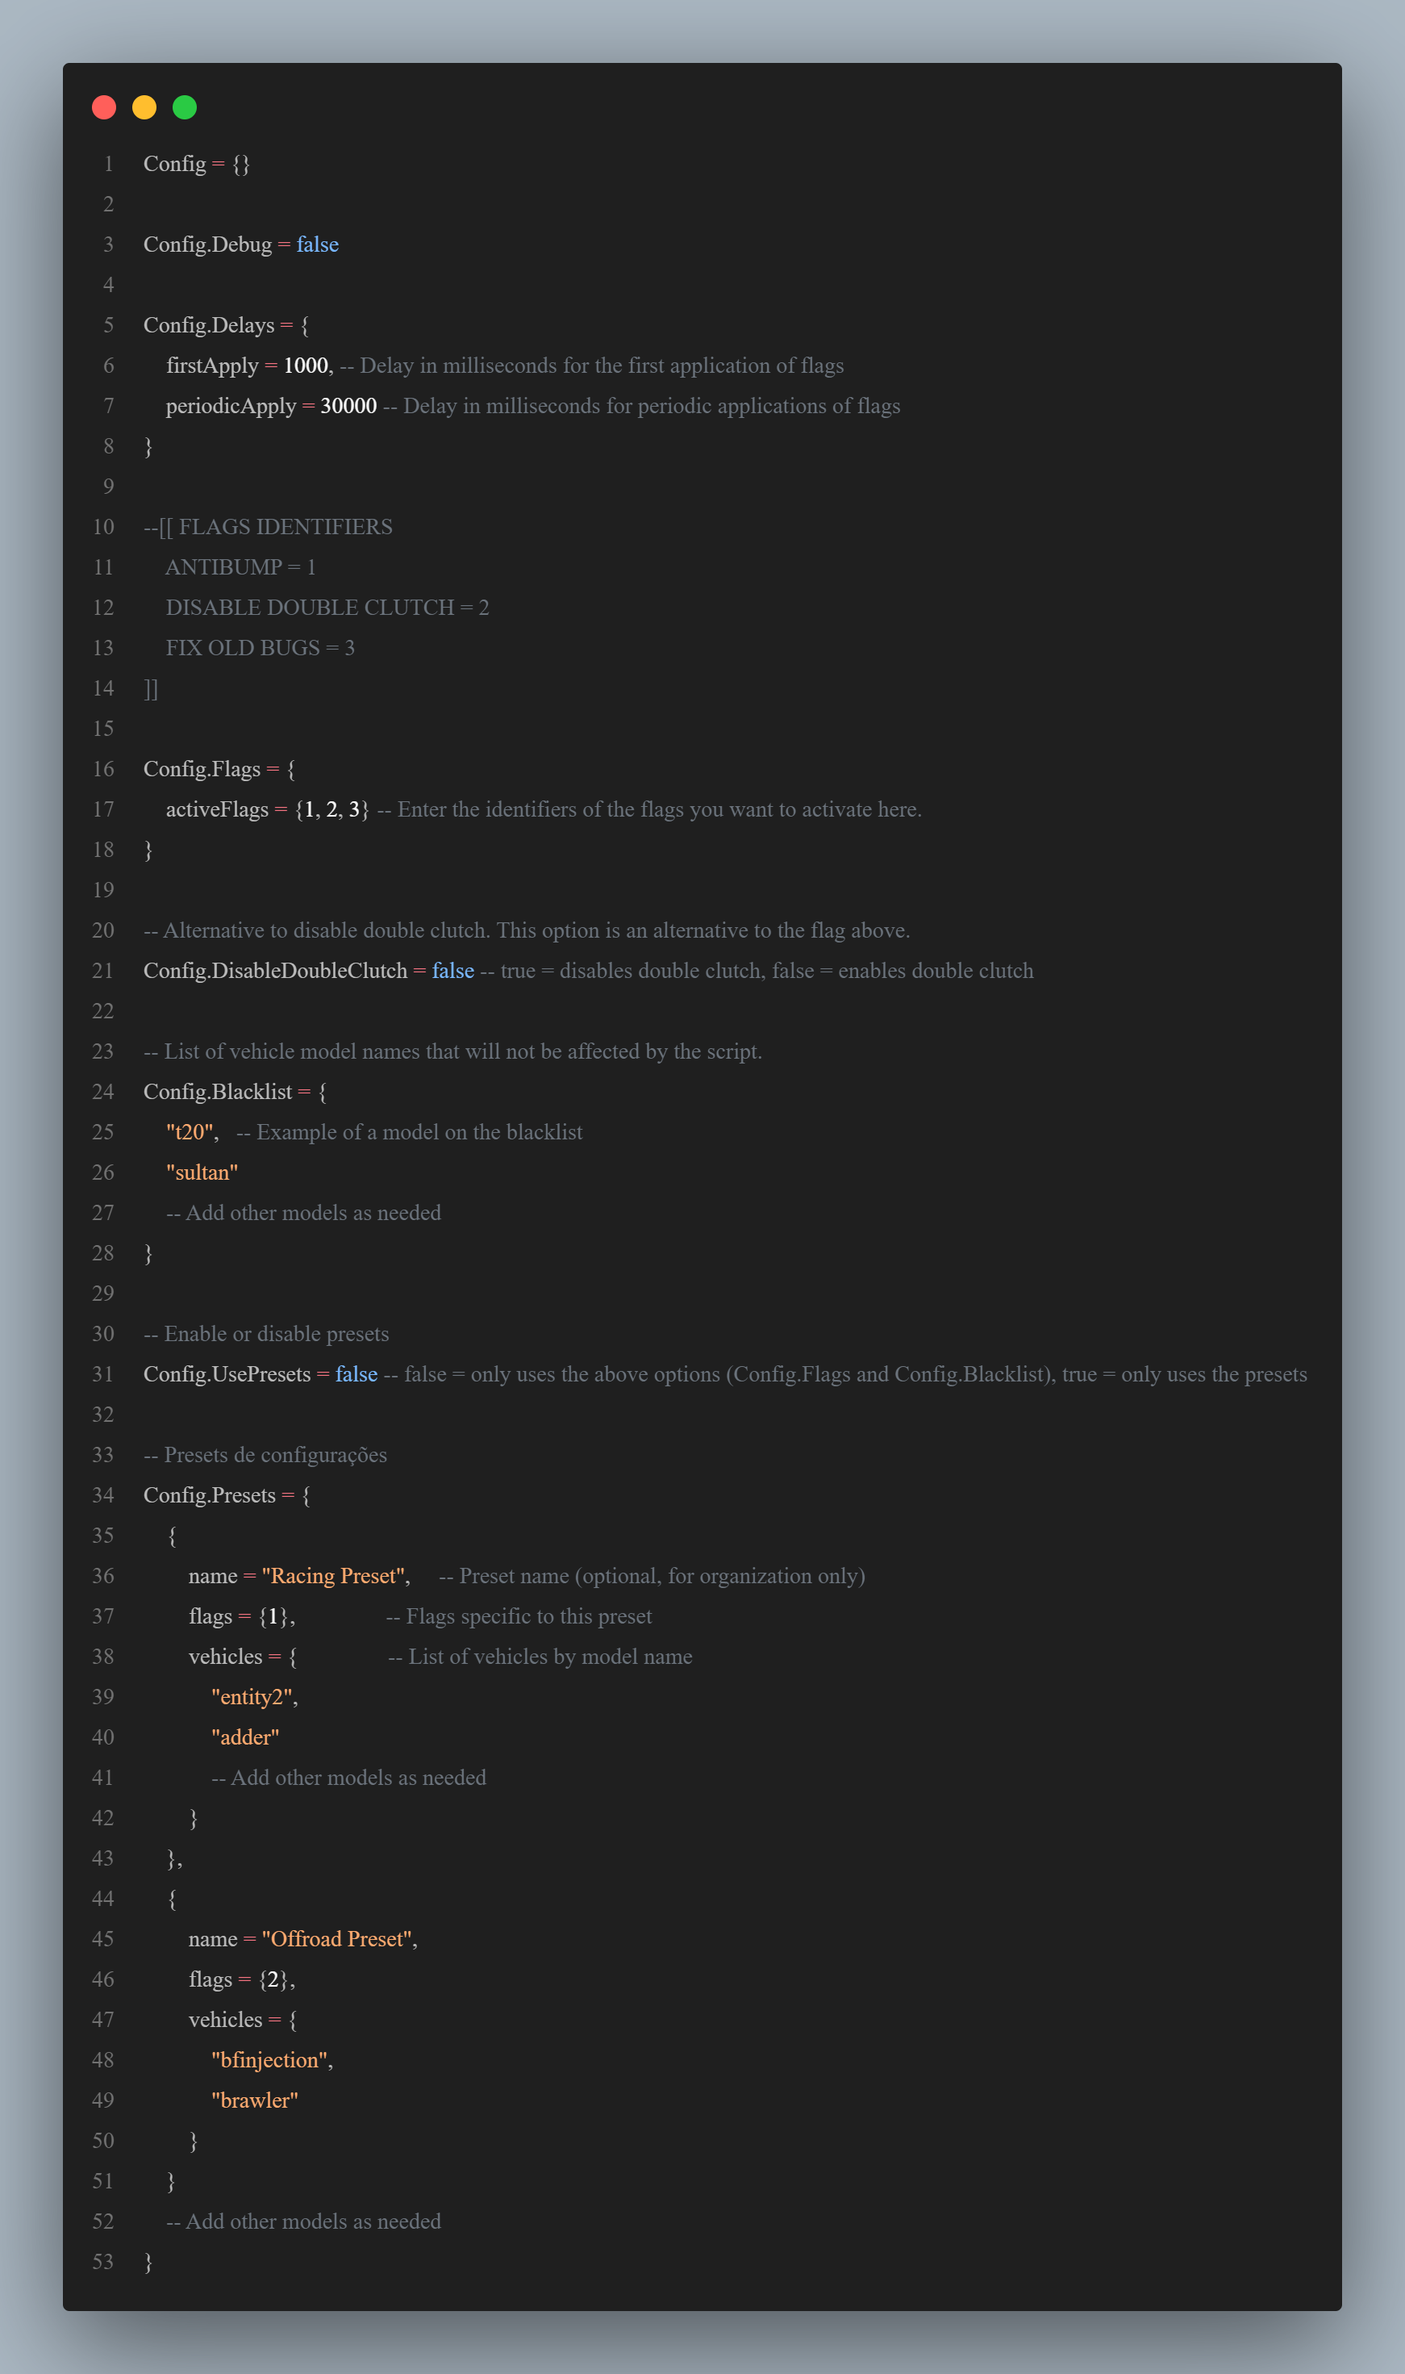
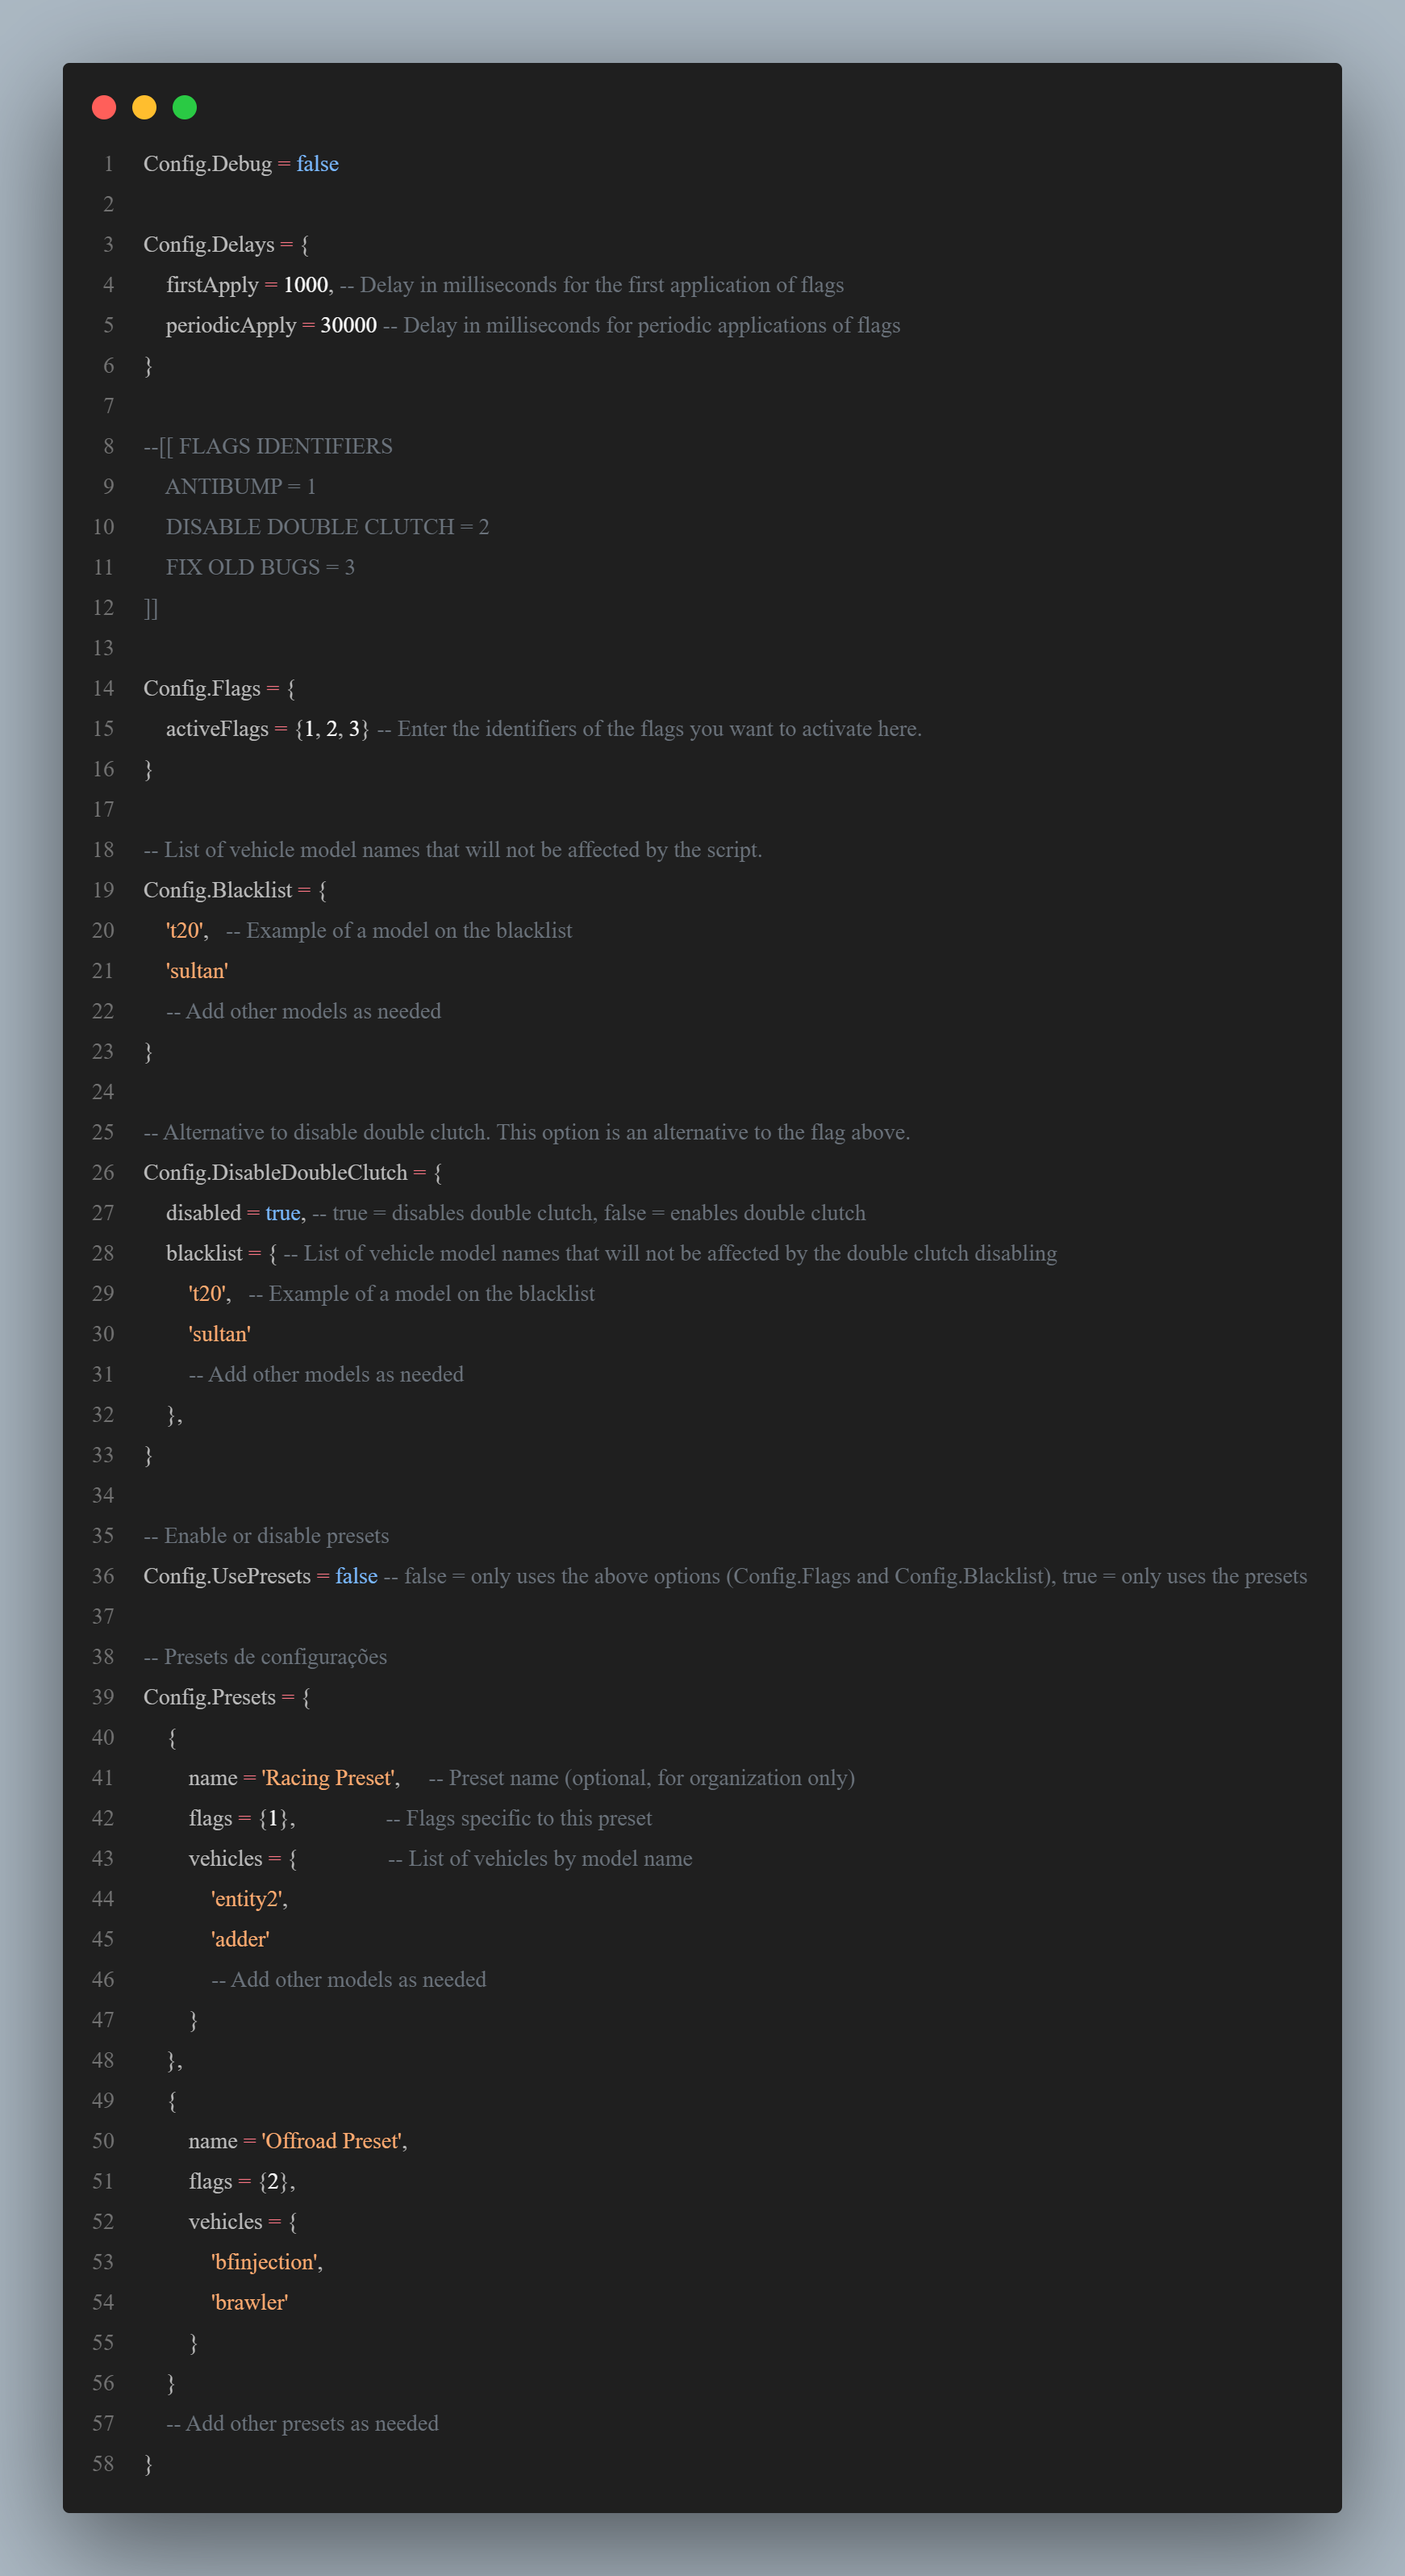
Update v1.4.2
Added a blacklist for vehicles that will not be affected by the alternative to Disable Double Clutch.

diff --git a/README.md b/README.md
@@ -32,7 +32,7 @@
 
 * Remove the 'fDownforceModifier' line if it exists; (It's not necessary, but I recommend it)
 * Add CCarHandlingData in the SubHandlingData section, like this:
-    ```
+    ```xml
     <SubHandlingData>
         <Item type="CCarHandlingData">
         </Item>
@@ -75,6 +75,10 @@
 ### 1.4
 
 * Added a alternative to Disable Double Clutch.
+
+### 1.4.2
+
+* Added a blacklist for vehicles that will not be affected by the alternative to Disable Double Clutch.
 
 # COPYRIGHT
 
